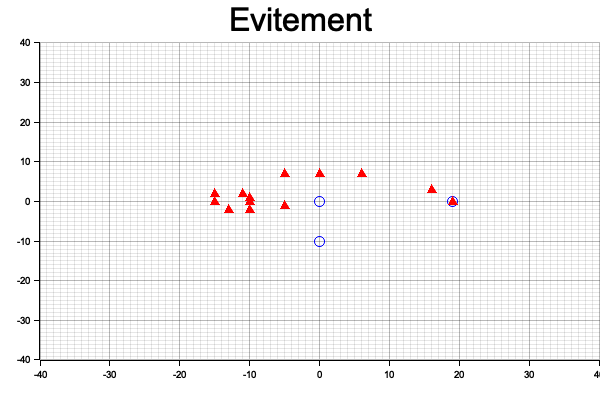
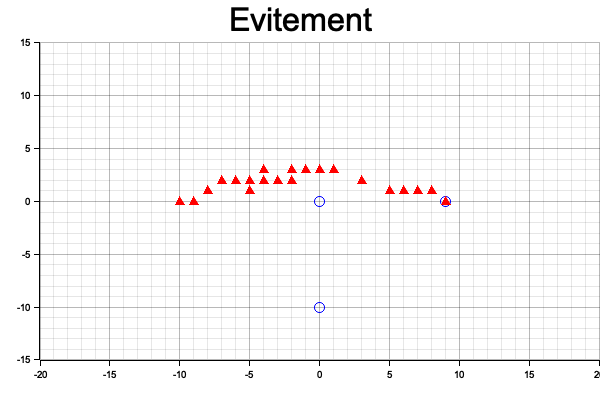
fix: rrt was colliding with itself

diff --git a/src/robot.rs b/src/robot.rs
@@ -1,12 +1,11 @@
 use crate::{
-    angle_difference, trackable::Trackable, Point2, RobotCommand, Vec2, World, CONTROL_PERIOD,
+    angle_difference, trackable::Trackable, Point2, Rect, RobotCommand, Vec2, World, CONTROL_PERIOD,
 };
-use rand::distributions::{Distribution, Uniform};
 use std::sync::{Arc, Mutex};
 
 pub type RobotId = u8;
 const IS_CLOSE_EPSILON: f32 = 0.01;
-const RRT_MAX_TRIES: usize = 10_000;
+const RRT_MAX_TRIES: usize = 1_000;
 
 #[derive(Clone)]
 pub struct Robot {
@@ -77,12 +76,12 @@ impl Robot {
         *self.target_angular_vel.lock().unwrap()
     }
 
-    pub fn set_target_vel(&self, target_vel: Vec2) {
+    fn set_target_vel(&self, target_vel: Vec2) {
         let mut self_target_vel = self.target_vel.lock().unwrap();
         *self_target_vel = target_vel;
     }
 
-    pub fn set_target_angular_vel(&self, target_angular_vel: f32) {
+    fn set_target_angular_vel(&self, target_angular_vel: f32) {
         let mut self_target_angular_vel = self.target_angular_vel.lock().unwrap();
         *self_target_angular_vel = target_angular_vel;
     }
@@ -121,24 +120,26 @@ impl Robot {
         destination: &T,
         angle: Option<f32>,
     ) -> Result<Vec<Point2>, String> {
-        let mut followed_path = Vec::new();
+        let mut followed_path = vec![self.get_pos()];
         while self.get_pos().distance_to(&destination.get_pos()) > IS_CLOSE_EPSILON {
             let start = self.get_pos();
             let goal = destination.get_pos();
+            let rect = Rect::new(Point2::new(start.x, 1.75), Point2::new(goal.x, -1.75));
+
             let start_time = tokio::time::Instant::now();
             let result = rrt::dual_rrt_connect(
                 &[start.x, start.y],
                 &[goal.x, goal.y],
                 |p: &[f32]| {
-                    let p = Point2::new(p[0], p[1]);
-                    !world.team.values().any(|r| p.distance_to(r) < 0.5)
+                    let p = Point2::from_vec(p);
+                    !world
+                        .team
+                        .values()
+                        .filter(|r| r.get_id() != self.get_id()) // can't collide with myself
+                        .any(|r| p.distance_to(r) < 0.3) // a robot is 10cm radius => 0.3 leaves 10cm between robots
                 },
-                || {
-                    let between = Uniform::new(-2.0, 2.0);
-                    let mut rng = rand::thread_rng();
-                    vec![between.sample(&mut rng), between.sample(&mut rng)]
-                },
-                0.5,
+                || rect.sample_inside().to_vec(),
+                0.1,
                 RRT_MAX_TRIES,
             )?
             .into_iter()

diff --git a/src/main.rs b/src/main.rs
@@ -7,6 +7,11 @@ mod trackable;
 use actions::*;
 use ball::Ball;
 use math::*;
+use plotters::{
+    chart::{ChartBuilder, LabelAreaPosition},
+    prelude::{BitMapBackend, Circle, IntoDrawingArea, TriangleMarker},
+    style::{BLUE, RED, WHITE},
+};
 use robot::{Robot, RobotId};
 use std::{
     collections::HashMap,
@@ -15,10 +20,11 @@ use std::{
 use tokio::task::JoinHandle;
 use trackable::*;
 
-pub const CONTROL_PERIOD: Duration = Duration::from_millis(50);
+pub const CONTROL_PERIOD: Duration = Duration::from_millis(10);
 
 #[derive(Clone)]
 pub struct World {
+    pub field: Rect,
     pub ball: Ball,
     pub team: HashMap<RobotId, Robot>,
 }
@@ -92,6 +98,8 @@ fn make_ball_spin(ball: Ball, timeout: Option<Duration>) -> JoinHandle<()> {
 #[tokio::main]
 async fn main() {
     let mut world = World {
+        // TODO: don't assume field dims
+        field: Rect::new(Point2::new(-3.5, 1.75), Point2::new(3.5, -1.75)),
         ball: Ball::new(Point2::new(-0.6, -0.2), Vec2::new(0.4, 0.4)),
         team: HashMap::new(),
     };
@@ -131,16 +139,15 @@ async fn main() {
 
     // showcase obstacle avoidance goto
     // teleport robots in place
-    r0.debug_tp(&Point2::new(-2., 0.), None);
+    r0.debug_tp(&Point2::new(-1., 0.), None);
     r1.debug_tp(&Point2::new(0., 0.), None);
     r2.debug_tp(&Point2::new(0., -1.), None);
     let path = r0
-        .goto_rrt(&world, &Point2::new(2., 0.), None)
+        .goto_rrt(&world, &Point2::new(1., 0.), None)
         .await
         .unwrap();
 
     // PLOT
-    use plotters::prelude::*;
     let root_area = BitMapBackend::new("plot.png", (600, 400)).into_drawing_area();
     root_area.fill(&WHITE).unwrap();
 
@@ -150,7 +157,7 @@ async fn main() {
         .set_label_area_size(LabelAreaPosition::Left, 40)
         .set_label_area_size(LabelAreaPosition::Bottom, 40)
         .caption("Evitement", ("sans-serif", 40))
-        .build_cartesian_2d(-40..40, -40..40)
+        .build_cartesian_2d(-20..20, -15..15)
         .unwrap();
 
     ctx.configure_mesh().draw().unwrap();

diff --git a/src/math/rect.rs b/src/math/rect.rs
@@ -1,0 +1,30 @@
+use super::point::Point2;
+use rand::distributions::{Distribution, Uniform};
+
+#[derive(Debug, Clone, Copy)]
+pub struct Rect {
+    top_left: Point2,
+    bottom_right: Point2,
+}
+
+impl Rect {
+    pub fn new(p1: Point2, p2: Point2) -> Self {
+        let min_x = p1.x.min(p2.x);
+        let max_x = p1.x.max(p2.x);
+        let min_y = p1.y.min(p2.y);
+        let max_y = p1.y.max(p2.y);
+
+        Self {
+            top_left: Point2::new(min_x, max_y),
+            bottom_right: Point2::new(max_x, min_y),
+        }
+    }
+
+    pub fn sample_inside(&self) -> Point2 {
+        let mut rng = rand::thread_rng();
+        Point2::new(
+            Uniform::new(self.top_left.x, self.bottom_right.x).sample(&mut rng),
+            Uniform::new(self.bottom_right.y, self.top_left.y).sample(&mut rng),
+        )
+    }
+}

diff --git a/src/math/point.rs b/src/math/point.rs
@@ -20,6 +20,14 @@ impl Point2 {
     pub fn to(&self, rhs: Point2) -> Vec2 {
         rhs - *self
     }
+
+    pub fn from_vec(point: &[f32]) -> Self {
+        Self::new(point[0], point[1])
+    }
+
+    pub fn to_vec(self) -> Vec<f32> {
+        vec![self.x, self.y]
+    }
 }
 
 impl Sub for Point2 {

diff --git a/src/math/mod.rs b/src/math/mod.rs
@@ -1,9 +1,11 @@
 pub mod line;
 pub mod point;
+pub mod rect;
 pub mod vec;
 
 pub use line::*;
 pub use point::*;
+pub use rect::*;
 pub use vec::*;
 
 use std::f64::consts::{PI, TAU};
